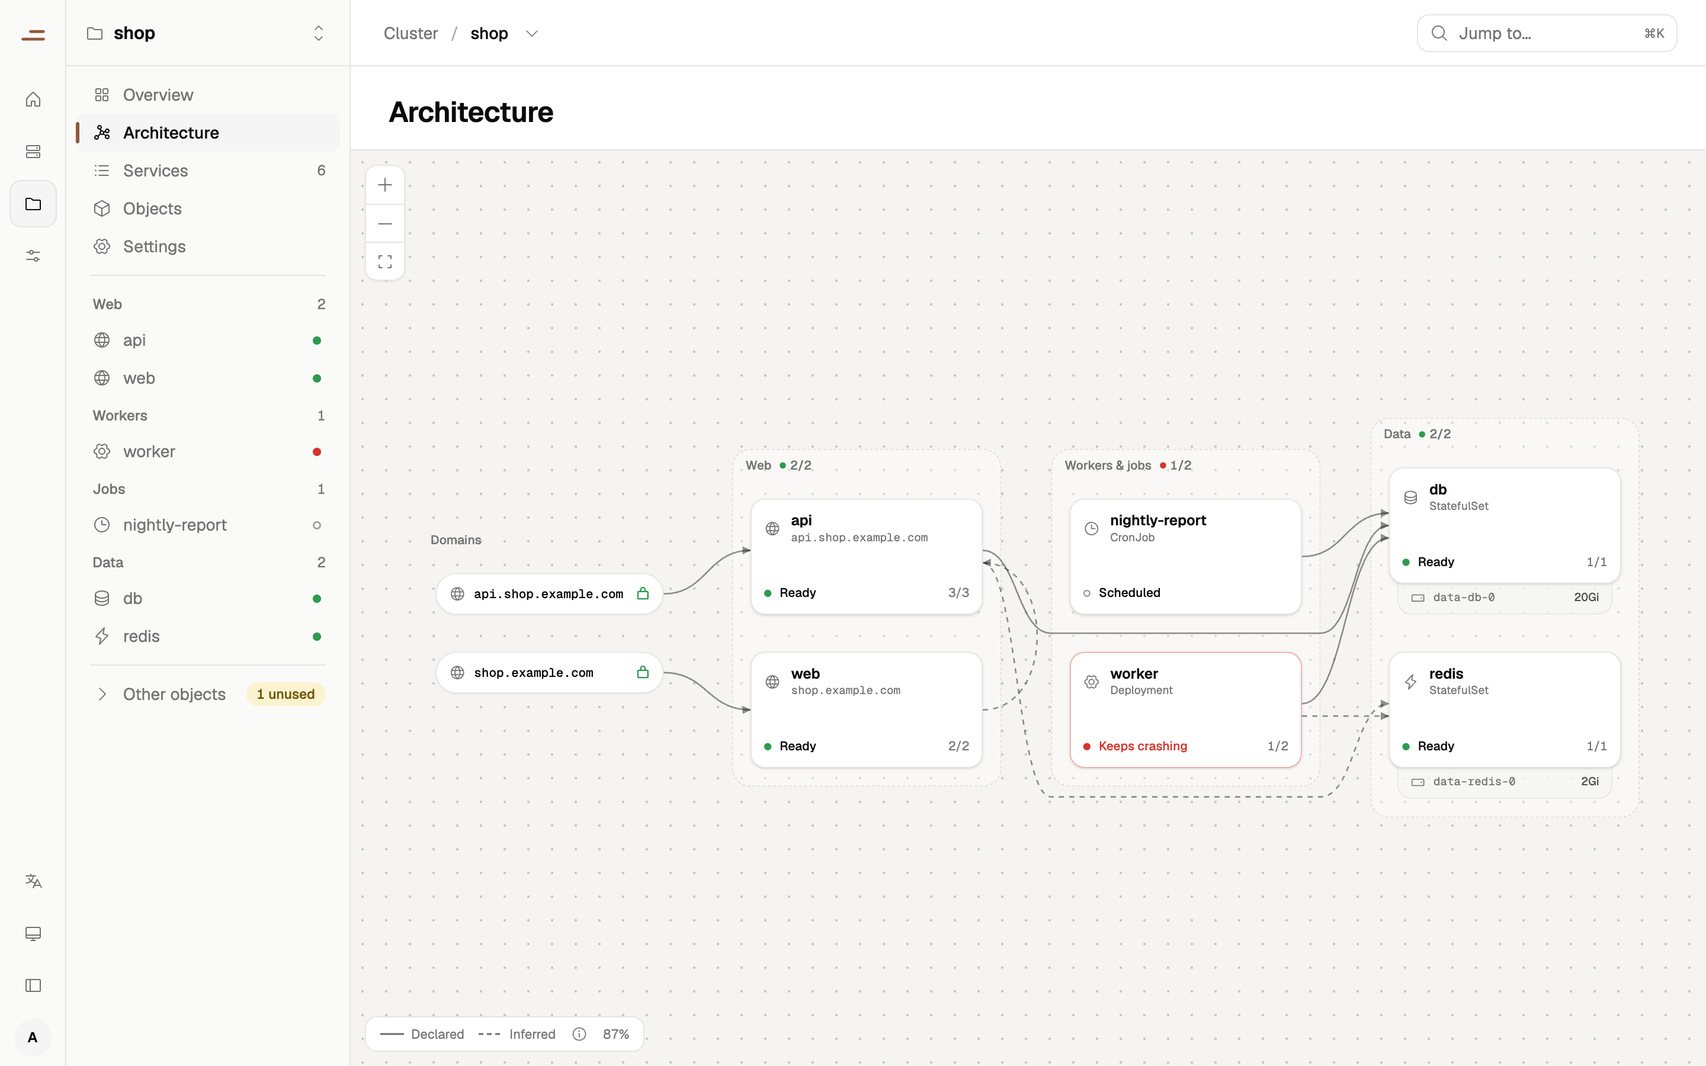
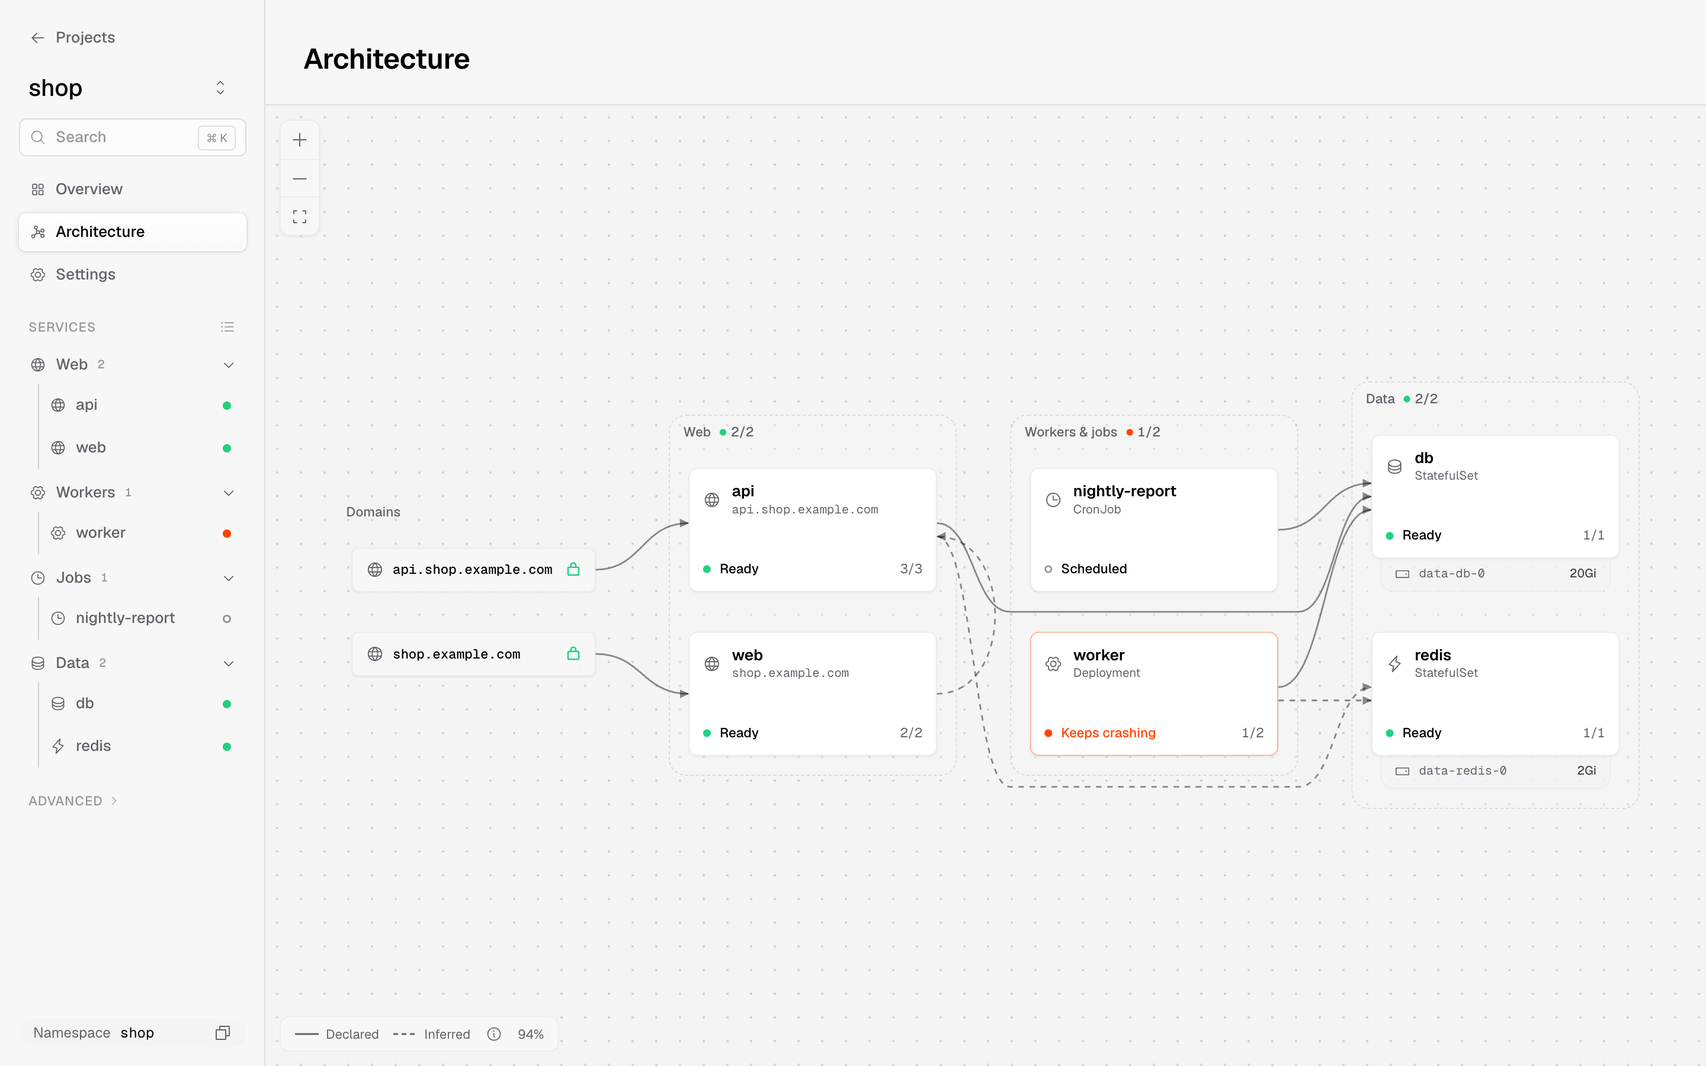
docs: describe Zeabur's shell and project layout, with new screenshots
DESIGN.md and the zeabur-ui skill describe the shell without a top bar,
the project sidebar, the service page's header and segmented tabs, the
columns, project cards and the settings layout. The README's
screenshots are of the demo in the new interface.

diff --git a/web/DESIGN.md b/web/DESIGN.md
@@ -35,7 +35,7 @@ design system's tokens:
   CJK face for the locale; `text-autospace` spaces it from Latin and digits. 500 for emphasis
   (labels, buttons, sidebar rows), 600 for titles. Figures are tabular everywhere.
 - **Motion**: the sidebar folds with Linear's easing; active markers slide (`slide`: segmented
-  controls, the tabs' underline); popups fade and grow a little from their trigger; panels come in
+  controls, the tabs' pill); popups fade and grow a little from their trigger; panels come in
   from their edge (the quick look `enter-from-right`, a `panel` or `sheet` dialog); toasts slide in;
   `prefers-reduced-motion` turns it off.
 - **Buttons** are the design system's: 13px at 500, sentence case. Default is lime with ink text,
@@ -49,7 +49,13 @@ design system's tokens:
   text colour, filled in blue at 70%, orange near a limit, grey for what is reserved. No bar of
   its own.
 - **Segmented** switches show the choice on a white thumb in a grey groove (a lighter grey in
-  dark mode).
+  dark mode). Tabs are the same: the dashboard's TabSwitcher (`Tabs`), the only tab style; a
+  service's tabs fill its column, each with its icon, no counts, and scroll sideways when they do
+  not fit. Vertical tabs are drawn as sidebar rows.
+- **Columns**: a service's header, tabs and content sit in Zeabur's 960px column
+  (`max-w-content`), centred; Home, Projects and the project's lists in a wider one
+  (`max-w-6xl`); project settings in the dashboard's settings column (`max-w-4xl`); the
+  Architecture canvas takes the whole pane.
 - **Pages** follow cloud consoles (GCP, Volcengine): every page starts with the design system's
   `PageHeader` (one title size; a pill or version beside the title, actions or meta such as
   "Updated" at the end of its row). An overview puts its key figures right under it in a
@@ -103,21 +109,22 @@ Zeabur has depth. A person new to it does most of what they came for (is it runn
 logs, change a variable, scale it, give it a domain) on a few plain pages; what takes knowing
 Kubernetes is one deliberate step further. Decide a feature's layer before its place:
 
-| Layer         | For                        | Global         | Project                      | Service                                                           |
-| ------------- | -------------------------- | -------------- | ---------------------------- | ----------------------------------------------------------------- |
-| **Everyday**  | everyone                   | Home, Projects | Overview, Services, Settings | Overview, Logs, Variables, Networking, Settings' Compute          |
-| **Adjusting** | digging in, tuning         |                | Architecture                 | Events, Releases (and rollback), Storage, Settings' Health checks |
-| **Expert**    | people who know Kubernetes | Cluster        | Objects                      | Terminal, YAML                                                    |
+| Layer         | For                        | Global         | Project                      | Service                                                                    |
+| ------------- | -------------------------- | -------------- | ---------------------------- | -------------------------------------------------------------------------- |
+| **Everyday**  | everyone                   | Home, Projects | Overview, Services, Settings | Overview, Logs, Variables, Metrics, Networking, Storage, Settings' Compute |
+| **Adjusting** | digging in, tuning         |                | Architecture                 | Events, Releases (and rollback), Settings' Health checks                   |
+| **Expert**    | people who know Kubernetes | Cluster        | Objects                      | Terminal, YAML                                                             |
 
 - **Everyday comes first and alone.** The sidebar leads with Home and Projects; Cluster and
-  Settings are in a Manage group at its end. The project column lists Overview, Services,
-  Architecture and Settings, with Objects under Advanced. A service shows five tabs; the rest
-  are under More (the design system's `TabsMore`). In a form, an adjusting part is a folding
-  section (Collapsible `section`).
+  Settings are in a Manage group after them. A project's sidebar lists Overview, Architecture
+  and Settings, then its services, with Objects under Advanced. A service shows seven tabs, then
+  Events while it has any and Releases where they apply; Terminal and YAML open from the header's
+  menu. There is no "More" menu (Zeabur's dashboard has none): what does not apply is left out.
+  In a form, an adjusting part is a folding section (Collapsible `section`).
 - **Fold, never hide.** Every deeper page stays one press away: a folded group remembers being
   opened (`remembered` in `lib/stores.ts`), a group that holds the page shown opens itself, and
-  a link straight to a deeper page (`?tab=yaml`, a toast's View) shows it in place, as a tab of
-  its own while it is open.
+  a link straight to a deeper page (`?tab=yaml`, a toast's View, the header menu's View YAML)
+  shows it in place, as a tab of its own while it is open.
 - **One current row.** The deepest place the page is has the selected fill; the rows it is under are
   ancestors (label in the text colour). Navigation links match their path exactly.
 
@@ -126,18 +133,19 @@ Kubernetes is one deliberate step further. Decide a feature's layer before its p
 Find the problem first, then let the person choose to dig into a service or to understand how the
 project fits together. Workflow, comparison and relationships each have their own entry.
 
-| URL                                 | Page                                                                                                                                                                                                                                                                                                                                                                                                    |
-| ----------------------------------- | ------------------------------------------------------------------------------------------------------------------------------------------------------------------------------------------------------------------------------------------------------------------------------------------------------------------------------------------------------------------------------------------------------- |
-| `/`                                 | **Home**: key figures (services healthy, failing, not ready, rolling out; the cluster's version, nodes ready and upgrade pill, linking to `/cluster`), needs attention (every unhealthy service across projects with its Logs and Events), projects failing first (services healthy out of all with what needs attention in a pill, warnings of the last hour, domain; 20 shown), recent warnings (5).  |
-| `/cluster`                          | **Cluster**, tab Overview: version with an upgrade pill, needs attention, nodes with requests against allocatable (usage when metrics-server is there), the last hour's warnings about the cluster itself (no namespace, a Node, or a `kube-` namespace). Projects are Home's. Each section loads alone; a section the person may not read names the missing rule and copies a ClusterRole.             |
-| `/cluster/components`               | **Cluster**, tab Components: installed components with their versions against the tested ones, then the catalogue. Reading it takes an administrator's rights; anyone else sees the missing rules and a ClusterRole to copy.                                                                                                                                                                            |
-| `/projects`                         | Projects and other namespaces.                                                                                                                                                                                                                                                                                                                                                                          |
-| `/projects/:p`                      | **Overview** (default): name and health, key figures, Failing (failing pod → its Logs and Events), services table (failures first; live CPU and memory when metrics-server answers), events (`?events=all`), domains, storage.                                                                                                                                                                          |
-| `/projects/:p/architecture`         | **Architecture**: layered canvas, declared (solid) and inferred (dashed) edges, PVCs under cards; a card opens a quick look (`?service=Kind/name`).                                                                                                                                                                                                                                                     |
-| `/projects/:p/services`             | **Services**: full table; `?q`, `?status=attention\|healthy`, `?kind`, `?sort`, `?desc`. A name opens the service; a replica's square opens that pod's logs.                                                                                                                                                                                                                                            |
-| `/projects/:p/objects`              | **Objects**: kinds first. The usual kinds and pinned kinds are read on open; every other served kind (custom resources too) is a row read on click; Scan all kinds reads the rest; kinds without access are marked; answers kept 45 s, Refresh re-reads, never polled; generated (`?generated`) and empty (`?empty`) kinds folded; `?q`; a name opens its YAML (`?object=group/version/resource/name`). |
-| `/projects/:p/services/:kind/:name` | **Service**: tabs Overview, Logs, Variables, Networking, Settings; under More, Events, Releases, Storage, Terminal, YAML (`?tab`, `?pod`). Overview's Usage (live, per replica) and History (`?range`, `?split`).                                                                                                                                                                                       |
-| `/settings`                         | Preferences, the metrics store usage history is read from, the signed-in person and About. `/settings/components` redirects to `/cluster/components`.                                                                                                                                                                                                                                                   |
+| URL                                 | Page                                                                                                                                                                                                                                                                                                                                                                                                         |
+| ----------------------------------- | ------------------------------------------------------------------------------------------------------------------------------------------------------------------------------------------------------------------------------------------------------------------------------------------------------------------------------------------------------------------------------------------------------------ |
+| `/`                                 | **Home**: key figures (services healthy, failing, not ready, rolling out; the cluster's version, nodes ready and upgrade pill, linking to `/cluster`), needs attention (every unhealthy service across projects with its Logs and Events), projects failing first (services healthy out of all with what needs attention in a pill, warnings of the last hour, domain; 20 shown), recent warnings (5).       |
+| `/cluster`                          | **Cluster**, tab Overview: version with an upgrade pill, needs attention, nodes with requests against allocatable (usage when metrics-server is there), the last hour's warnings about the cluster itself (no namespace, a Node, or a `kube-` namespace). Projects are Home's. Each section loads alone; a section the person may not read names the missing rule and copies a ClusterRole.                  |
+| `/cluster/components`               | **Cluster**, tab Components: installed components with their versions against the tested ones, then the catalogue. Reading it takes an administrator's rights; anyone else sees the missing rules and a ClusterRole to copy.                                                                                                                                                                                 |
+| `/projects`                         | Projects as Zeabur's project cards (namespace, services' health, domain; failing first), or as a list (remembered), then the other namespaces.                                                                                                                                                                                                                                                               |
+| `/projects/:p`                      | **Overview** (default): name and health, key figures, Failing (failing pod → its Logs and Events), services table (failures first; live CPU and memory when metrics-server answers), events (`?events=all`), domains, storage.                                                                                                                                                                               |
+| `/projects/:p/architecture`         | **Architecture**: layered canvas, declared (solid) and inferred (dashed) edges, PVCs under cards; a card opens a quick look (`?service=Kind/name`).                                                                                                                                                                                                                                                          |
+| `/projects/:p/services`             | **Services**: full table; `?q`, `?status=attention\|healthy`, `?kind`, `?sort`, `?desc`. A name opens the service; a replica's square opens that pod's logs.                                                                                                                                                                                                                                                 |
+| `/projects/:p/objects`              | **Objects**: kinds first. The usual kinds and pinned kinds are read on open; every other served kind (custom resources too) is a row read on click; Scan all kinds reads the rest; kinds without access are marked; answers kept 45 s, Refresh re-reads, never polled; generated (`?generated`) and empty (`?empty`) kinds folded; `?q`; a name opens its YAML (`?object=group/version/resource/name`).      |
+| `/projects/:p/services/:kind/:name` | **Service**: header (icon, name, status, created, `Kind/name`, image, Restart and a menu with Open terminal, View YAML, Delete), then tabs Overview, Logs, Variables, Metrics, Networking, Storage, Settings, with Events while there are any and Releases for workloads that keep them; Terminal and YAML while open (`?tab`, `?pod`). Metrics: Usage (live, per replica) and History (`?range`, `?split`). |
+| `/projects/:p/settings`             | **Project settings** (their own sidebar: Back, General): Basic information (icon, name, description), Kubernetes namespace (name, shown as a project or Adopt), Batch actions (pause or restart every service, one plan each), Danger zone (Remove from Zeabur).                                                                                                                                             |
+| `/settings`                         | Preferences, the metrics store usage history is read from, the signed-in person and About. `/settings/components` redirects to `/cluster/components`.                                                                                                                                                                                                                                                        |
 
 Everything a person picks (tab, filter, sort, selected service, pod) is in the URL: links are
 shareable and Back works. The Architecture viewport is kept per project for the visit, so coming
@@ -145,23 +153,26 @@ back from a service page finds the canvas as it was.
 
 ## Shell
 
-The frame is agent-playground's, from the design system (`AppFrame`, `Sidebar`): the sidebar sits
-on the window ground and the page is one panel inset by 8px, rounded 12.
+The frame is Zeabur's dashboard, from the design system (`AppFrame`, `FrameSidebar`, `Sidebar`):
+the navigation drawer (224px) beside the page, which scrolls on its own. There is no top bar and no
+breadcrumb: the sidebar says where the page is, and ⌘K jumps anywhere.
 
-- **Sidebar** (folds to the panel's gap from the top bar's toggle or ⌘\, remembered): the logo
-  with search beside it (the ⌘K palette), then Home, Cluster, Projects and Settings; the adopted
-  projects with their health in a section that folds; the person (a menu, where people sign in),
-  language and theme at the bottom. Rows are 28px, a 14px icon and a 13px label at 500 in every
-  language; the current one has the selected fill.
-- **Project column**, a pane at the left of the panel inside a project: the project's name (a link
-  to its Overview) with a switcher, then Overview, Architecture, Services, Objects and Settings,
-  then the services grouped by `part-of` or by role (Web, Internal, Workers, Jobs, Data) in
-  sections with a status dot each, then the other objects folded. It stays in place on every
-  project and service page.
-- **Top bar**, the panel's header: the sidebar's toggle; breadcrumb `Cluster / shop ▾ / worker ▾`:
-  each crumb a link, each ▾ a separate switcher.
-- **Phones** (< 768 px): the sidebar and the project column move into a sheet behind the top bar's
-  toggle; the project's four entries also show as tabs under the top bar.
+- **Sidebar**: the logo; where the dashboard has its workspace picker, the cluster (its name, a
+  link to `/cluster`, `SidebarPicker`); the search row (`SidebarSearch`, ⌘K); Home and Projects,
+  then Cluster and Settings under Manage; at the foot, "Admin until 14:05" while admin rights are
+  in use, and the person's menu (`SidebarPicker` as a menu trigger): who is signed in, Use or Drop
+  admin rights, the language, the theme, and Sign out where people sign in. Rows are 32px, a 14px
+  icon and a 13px label at 500; the current one is raised on the white pill.
+- **Project sidebar**, which replaces the global one on every project page: back to Projects, the
+  project's name (with its icon and a switcher) and description, the search row, Overview,
+  Architecture and Settings, then the services under a Services label (its action opens the full
+  Services table), grouped by `part-of` or by role (Web, Internal, Workers, Jobs, Data) as folding
+  rows (`SidebarMenu`) with each service on the tree rail and a status dot; one group is listed
+  flat. Objects and the objects that belong to no service are under Advanced, folded. The
+  namespace is in a pill to copy at the foot (`SidebarCopyPill`). On the settings pages the
+  sidebar is their navigation instead: Back, the title, General.
+- **Phones** (< 768 px): the dashboard's header (menu, logo, search) above the page; the menu opens
+  the sidebar (global or the project's) in a sheet from the left.
 - **⌘K palette**: projects, services, pods (their logs), domains, a few actions, recent items.
   Enter while an IME is composing does nothing.
 

diff --git a/.claude/skills/zeabur-ui/SKILL.md b/.claude/skills/zeabur-ui/SKILL.md
@@ -30,12 +30,17 @@ description: Change Zeabur's web interface (web/: React, TanStack, shadcn/ui on 
 - **Icons.** Phosphor only, one import per icon: `import XIcon from "~icons/ph/x"` (a weight is
   its own name, `~icons/ph/warning-fill`), built at build time from `@iconify-json/ph` by
   unplugin-icons (its JSX compiler, through svgr); decorative ones with `aria-hidden`.
-- **Design.** agent-playground's and lymeno's language (Linear's: near-hueless greys, 0.5px
-  hairlines, faint shadows, Inter 13px at 450, controls rounded 8 and popups 12, no focus rings)
-  with Zeabur's lime and ink as the accent, in agent-playground's frame (the design
-  system's `AppFrame`, `Sidebar`, `PanelHeader`). Build from the design system's components and
-  their variants rather than look-alikes. Tokens, button and frame rules and banned styles are in
-  `web/DESIGN.md`; `scripts/check-ui-styles.sh` enforces the bans (including focus rings).
+- **Design.** Zeabur's dashboard (reference: its `NavigationDrawer`, project sidebar,
+  `ServiceHeader` and `ProjectCard`): the navigation drawer (`AppFrame`, `FrameSidebar`,
+  `Sidebar` with `SidebarPicker`, `SidebarSearch`, `SidebarMenu`, `SidebarCopyPill`) and no top
+  bar; inside a project its own sidebar (`components/shell/project-sidebar.tsx`) replaces the
+  global one; a service page is a header and the segmented `Tabs` across the 960px column
+  (`max-w-content`); projects are cards (`components/project-card.tsx`); settings are
+  `SectionLabel` over `Card variant="list"` of `CardRow`s. Tabs are only the segmented switcher:
+  no underline tabs, no "More" menu; leave out what does not apply. Build from the design
+  system's components and their variants rather than look-alikes. Tokens, layout, shell and
+  banned styles are in `web/DESIGN.md`; `scripts/check-ui-styles.sh` enforces the bans (including
+  focus rings).
 - **Lint.** `bun run lint` includes [shadcn/lint](https://github.com/shadcn-ui/lint) (rules in
   `web/.oxlintrc.json`, which recognises the design system's components by `componentImports`;
   conventions in `web/DESIGN.md`, "Lint"). Pages pass only layout classes to a component: a

diff --git a/README.md b/README.md
@@ -12,7 +12,7 @@ than you have, and keeps no state of its own: no database, no custom resources.
 > on few clusters. Do not point it at a cluster you cannot afford to break.
 
 <p align="center">
-  <img src="docs/images/home.png" alt="Home: what needs attention across all projects, and each project's replicas" width="900">
+  <img src="docs/images/home.png" alt="Home: what needs attention across all projects, and each project's health as Zeabur's project cards" width="900">
 </p>
 
 | | |
